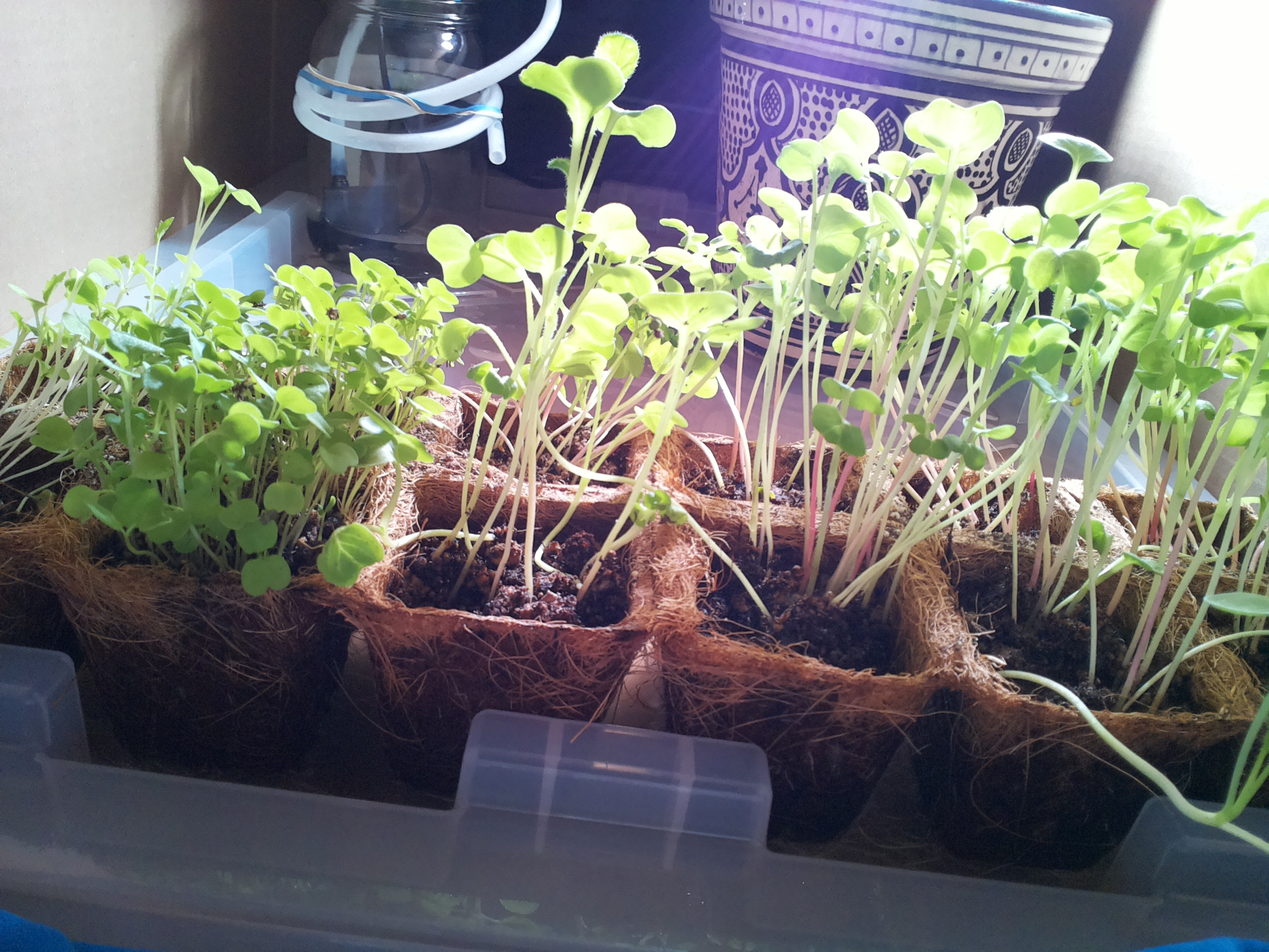
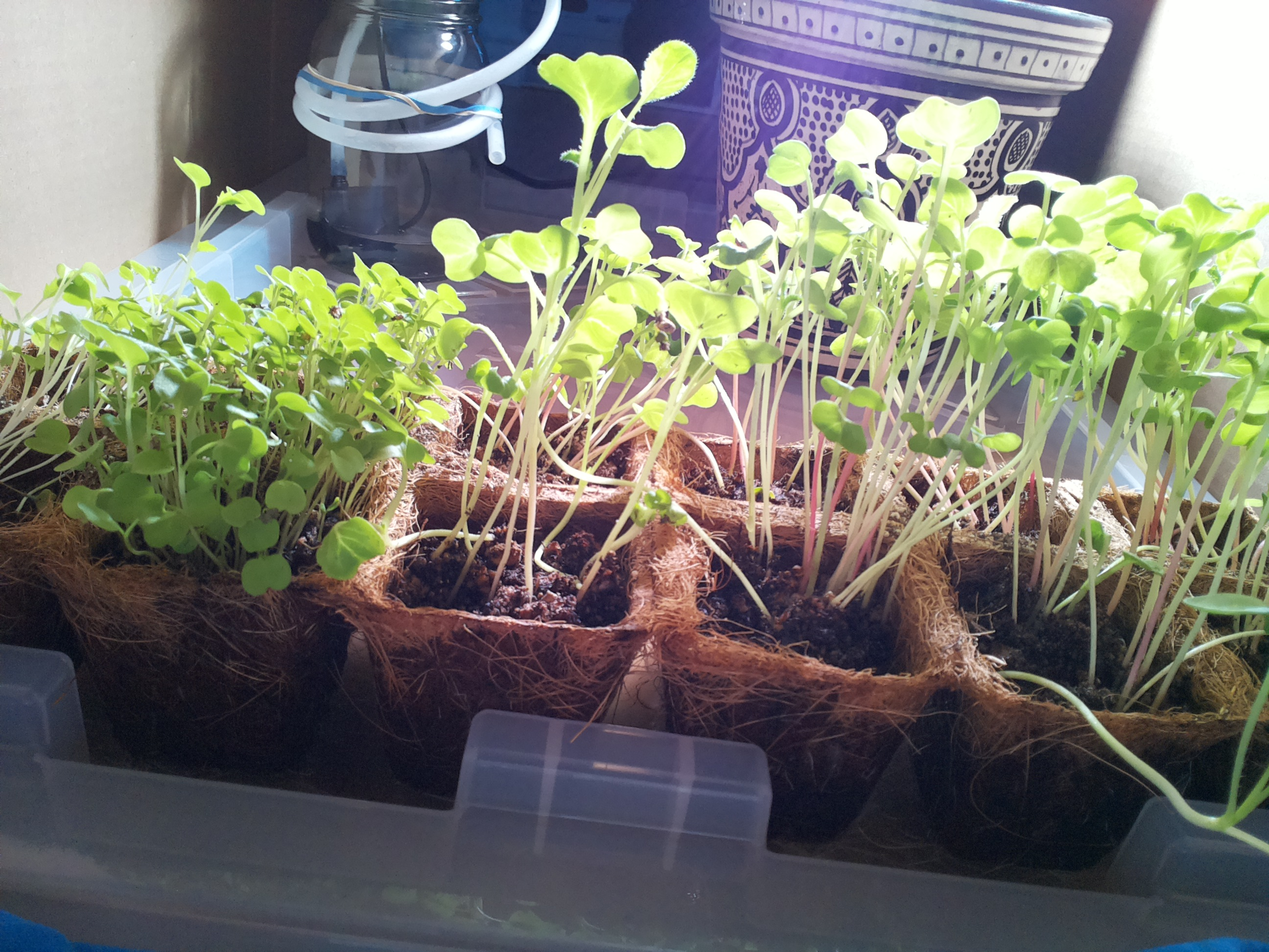
mirror sync 2026-09-07 13:10

diff --git a/home/bubbles/farmer-claude/JOURNAL.md b/home/bubbles/farmer-claude/JOURNAL.md
@@ -315,3 +315,11 @@
 - Lamp: on — correct for photoperiod.
 - Watering: 4s pulse per standing order 2 (4s of 60s daily cap used; water.py OK, pump plug verified OFF after).
 - No changes to standing orders. Next: 13:07 observe-only; 19:22 pulse unless surfaces look dark. Still pending: verify lamp-sync.sh fires in logs/cron.log after the next reboot.
+
+### 2026-09-07 13:07 — midday check-in (cron, observe only)
+- Photo: seedlings vigorous in all 12 cells (day 14) — tall, leggy, cotyledons broad, turgid, and green; true leaves developing with fine hairs clearly visible on the newest ones. No wilting, mold, pests, or tipping. Tube outlet in place beside the jar over the lid.
+- Jar: zoomed photo shows the glass dark throughout the visible portion — water still high, refill holding, pump body well covered.
+- Soil: visible cell surfaces dark/damp where not hidden by foliage; no dry-down alarm since the morning pulse. Coir walls pale as usual.
+- Lamp: on — correct for photoperiod.
+- Watering: none (observe-only per standing order 2); 4s of 60s daily cap used. Evening 19:22 pulse planned unless surfaces look dark.
+- No changes to standing orders. Still pending: verify lamp-sync.sh fires in logs/cron.log after the next reboot.
